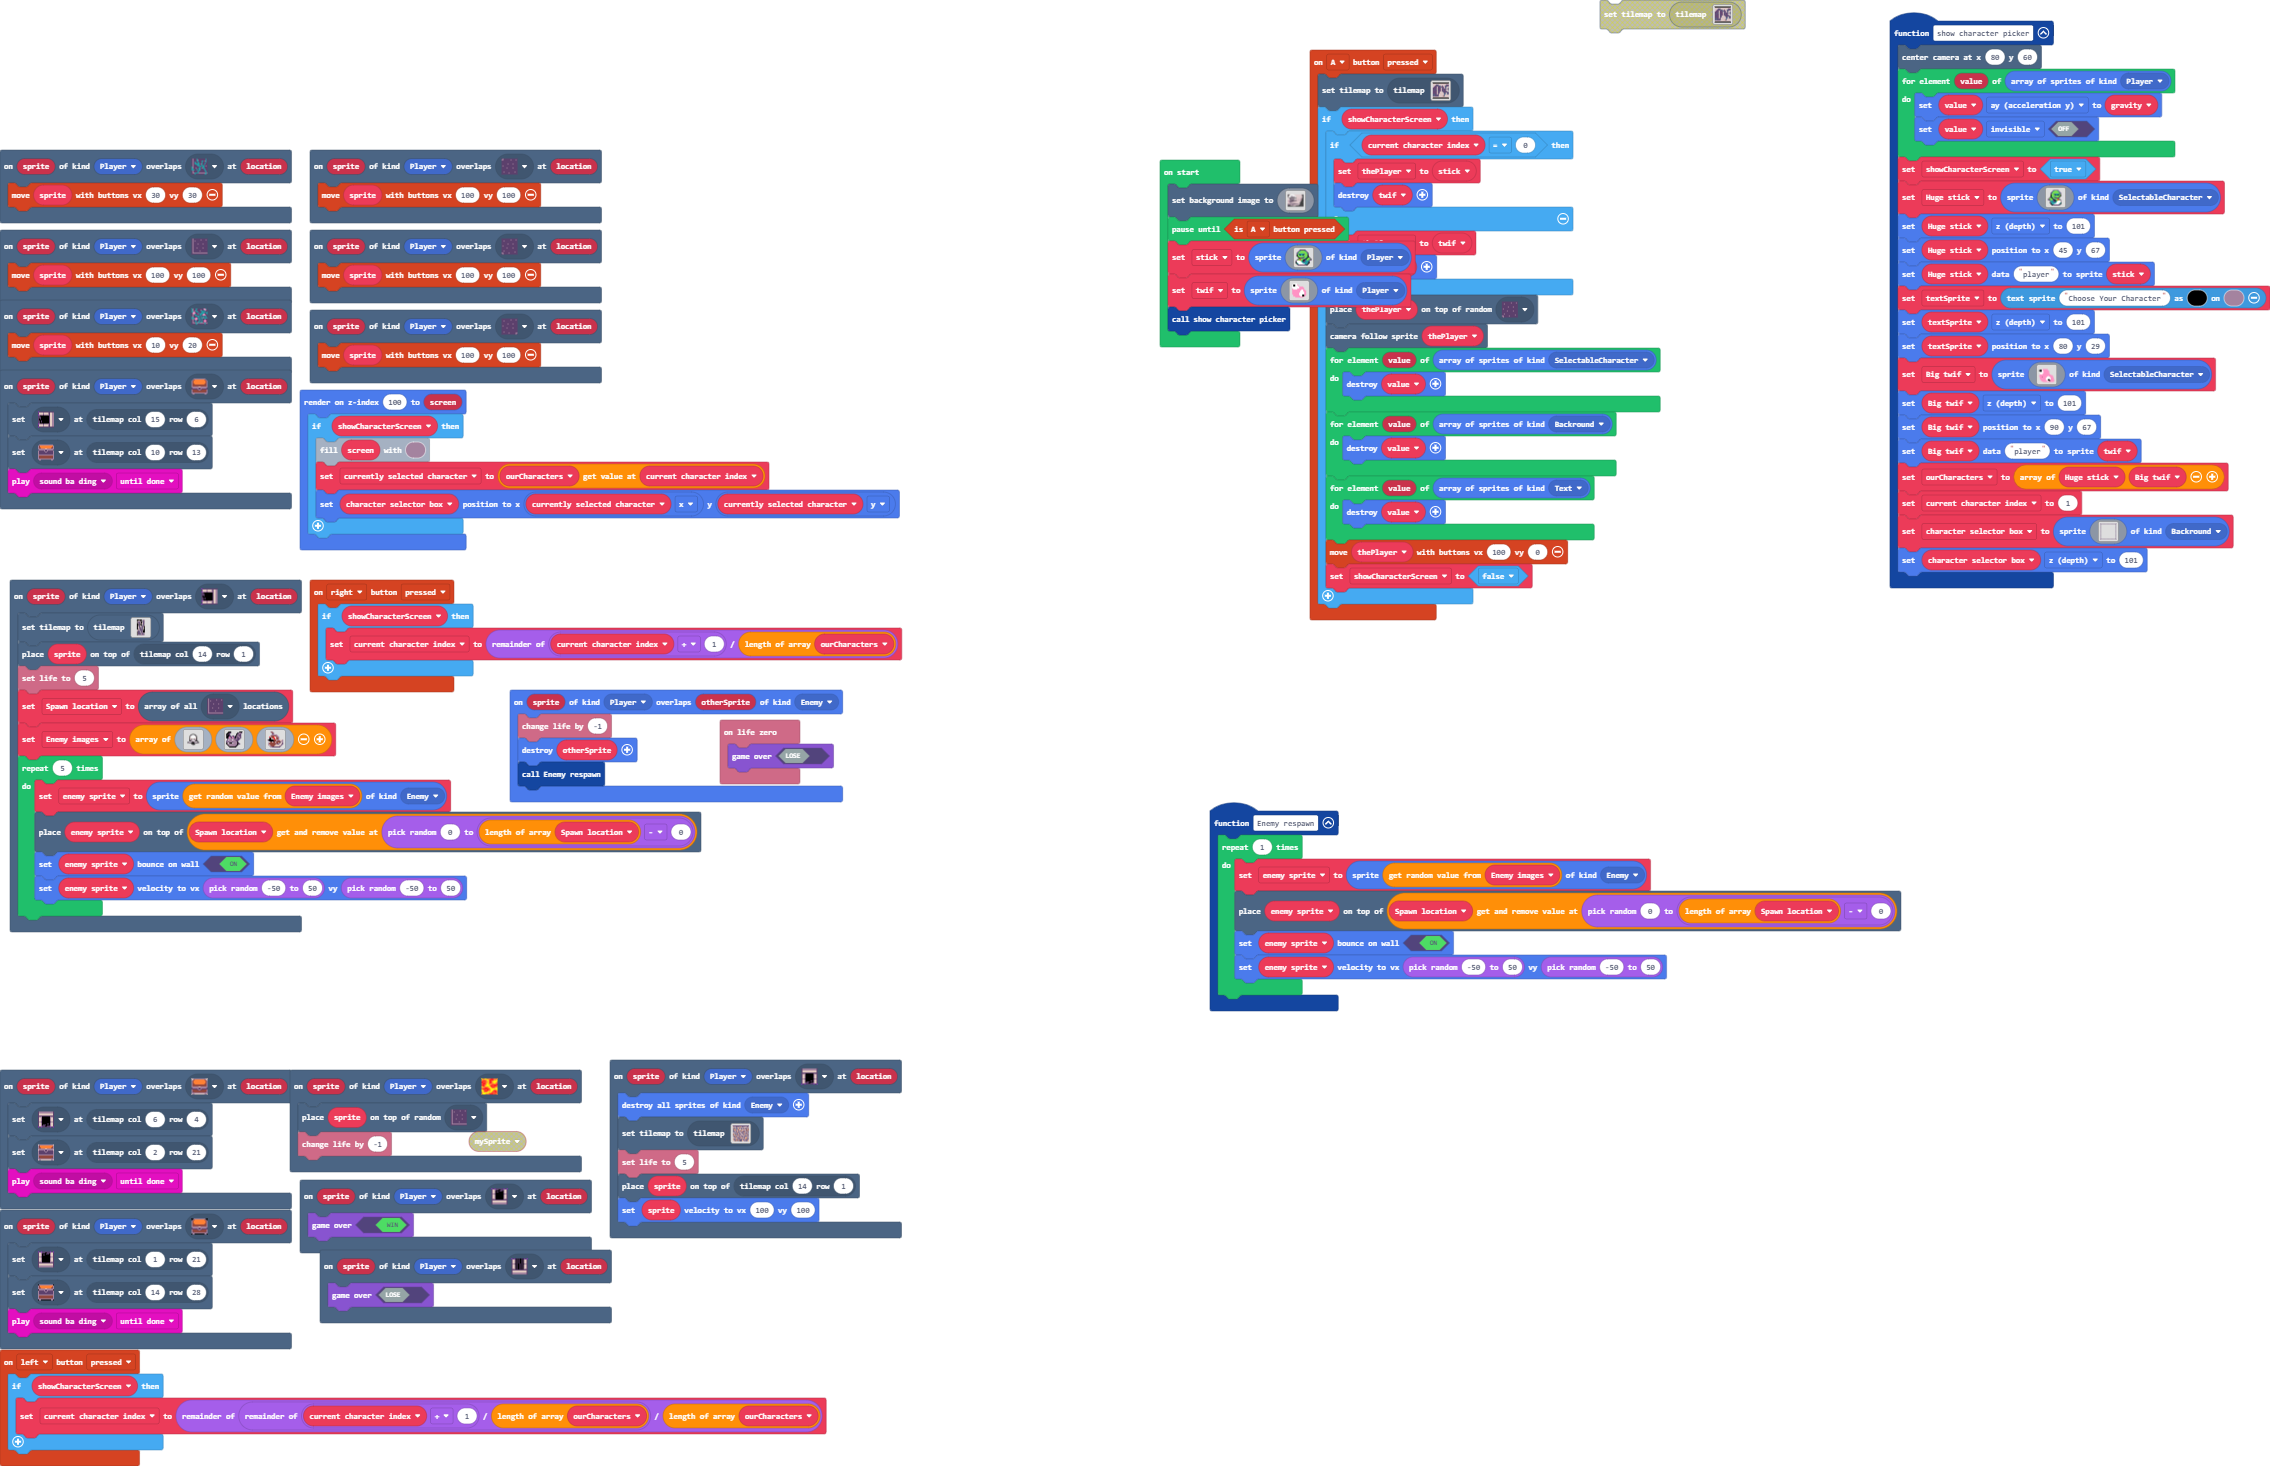
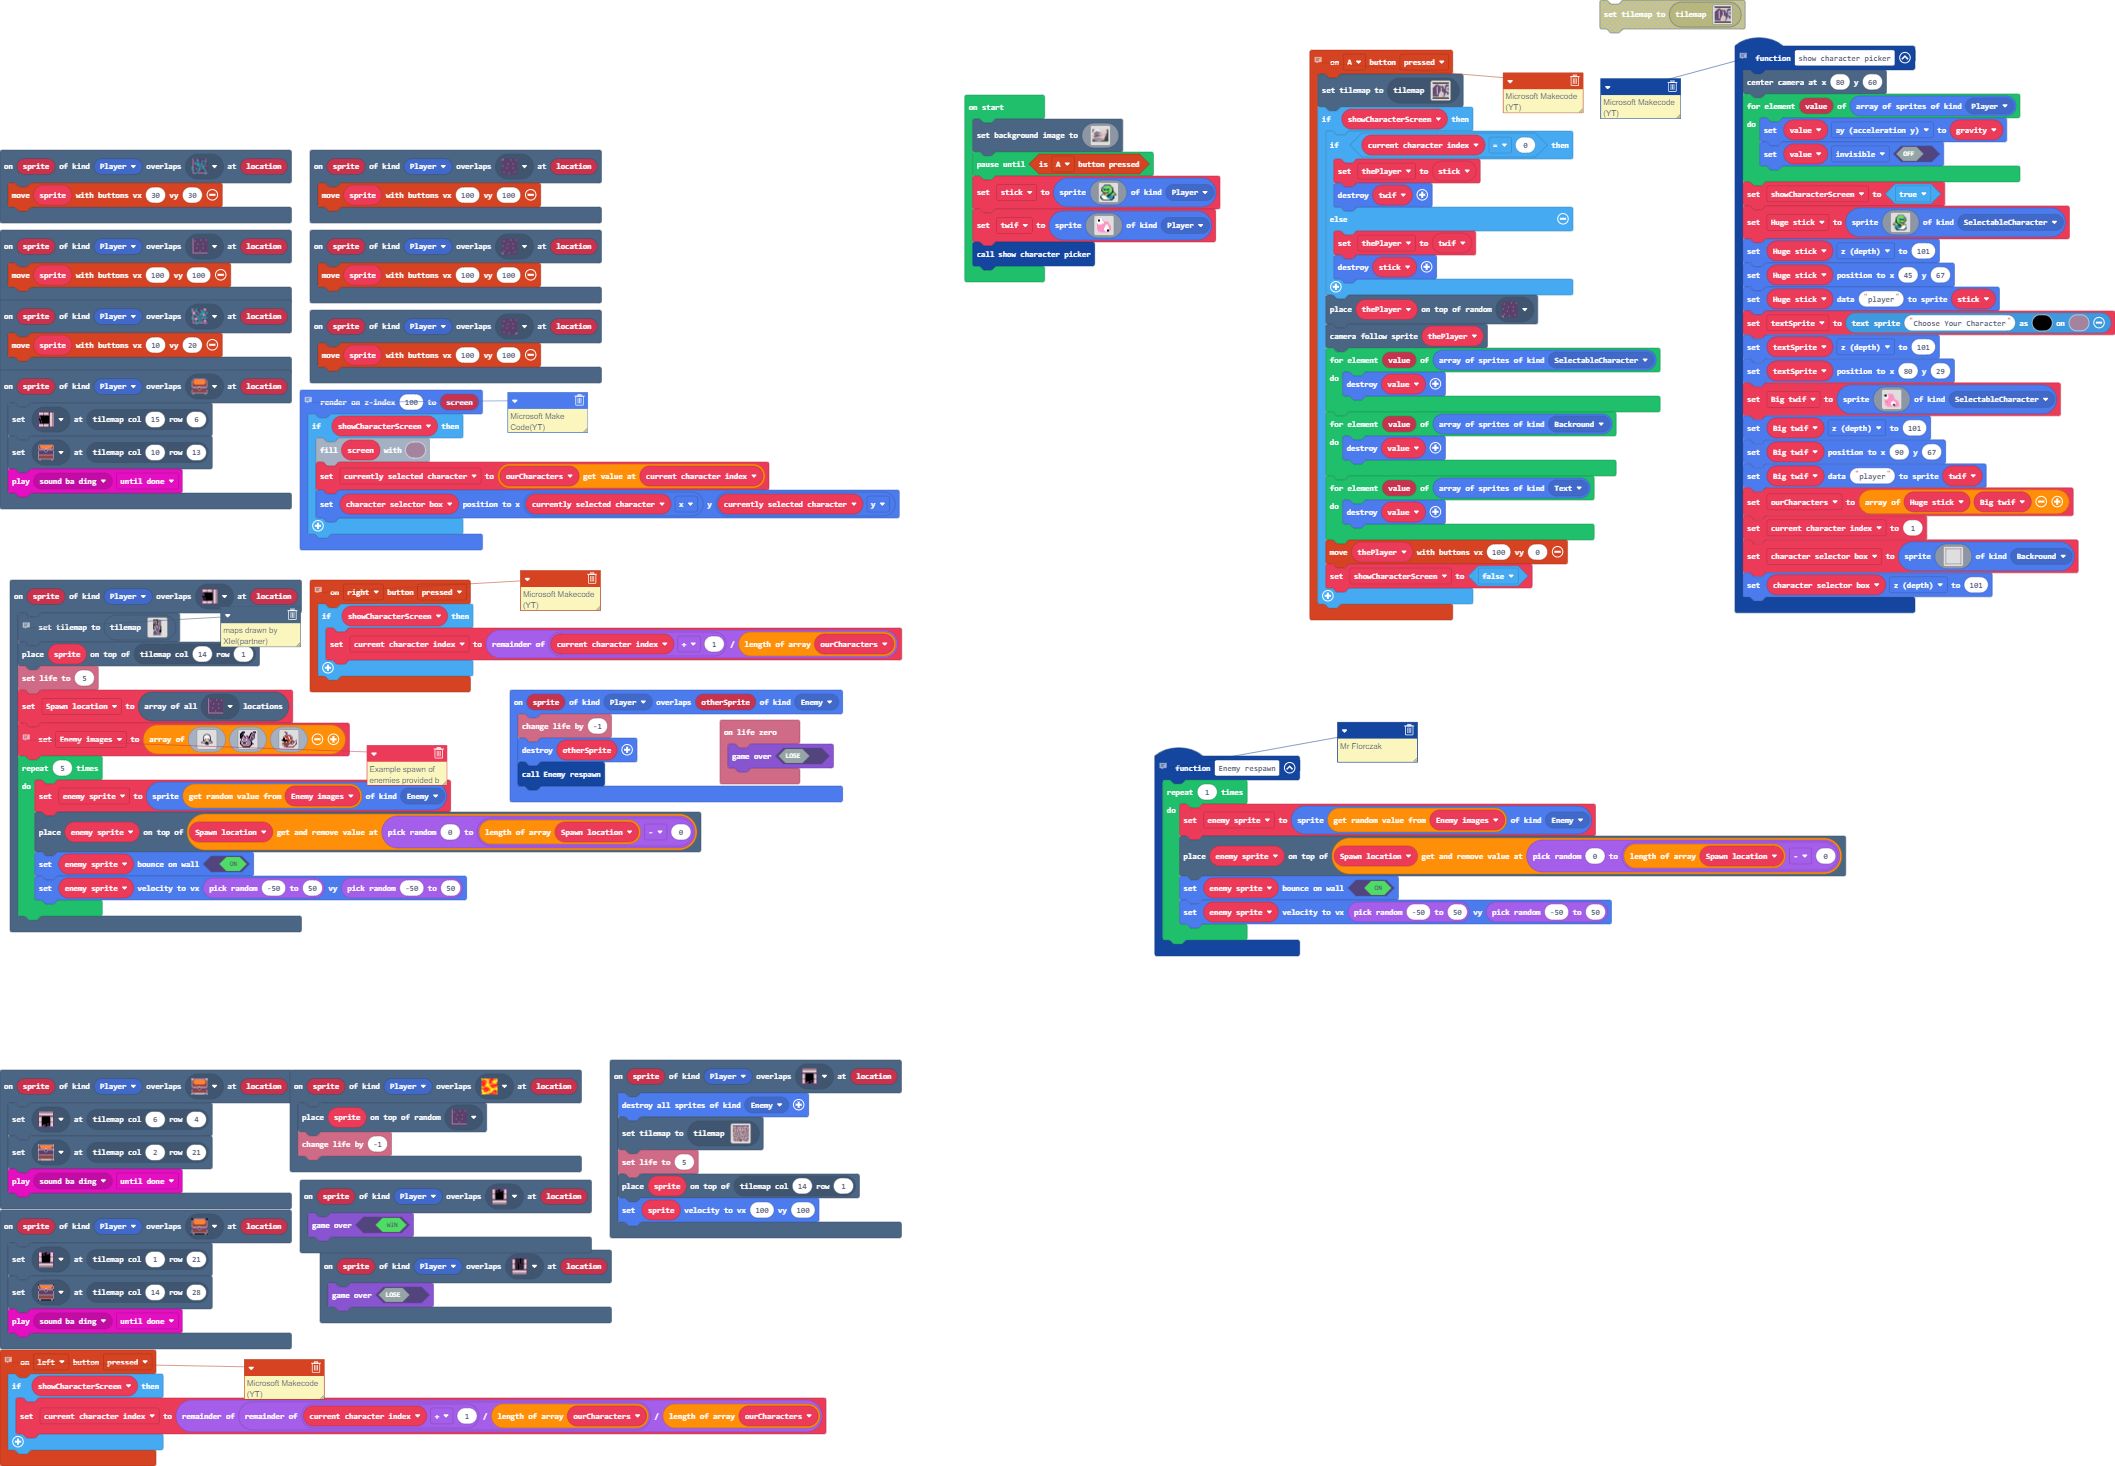
lava teleports and costs life

diff --git a/main.ts b/main.ts
@@ -5,6 +5,7 @@ namespace SpriteKind {
 scene.onOverlapTile(SpriteKind.Player, assets.tile`myTile0`, function (sprite, location) {
     controller.moveSprite(sprite, 10, 20)
 })
+// Microsoft Makecode (YT)
 function show_character_picker () {
     scene.centerCameraAt(80, 60)
     for (let value of sprites.allOfKind(SpriteKind.Player)) {
@@ -72,6 +73,7 @@ scene.onOverlapTile(SpriteKind.Player, sprites.dungeon.darkGroundNorthEast1, fun
 scene.onOverlapTile(SpriteKind.Player, assets.tile`myTile`, function (sprite, location) {
     controller.moveSprite(sprite, 30, 30)
 })
+// Microsoft Makecode (YT)
 controller.A.onEvent(ControllerButtonEvent.Pressed, function () {
     tiles.setCurrentTilemap(tilemap`level1`)
     if (showCharacterScreen) {
@@ -107,11 +109,13 @@ scene.onOverlapTile(SpriteKind.Player, assets.tile`myTile4`, function (sprite, l
     tiles.placeOnTile(sprite, tiles.getTileLocation(14, 1))
     sprite.setVelocity(100, 100)
 })
+// Microsoft Makecode (YT)
 controller.left.onEvent(ControllerButtonEvent.Pressed, function () {
     if (showCharacterScreen) {
         current_character_index = (current_character_index + 1) % ourCharacters.length % ourCharacters.length
     }
 })
+// Mr Florczak
 function Enemy_respawn () {
     for (let index = 0; index < 1; index++) {
         enemy_sprite = sprites.create(Enemy_images._pickRandom(), SpriteKind.Enemy)
@@ -128,6 +132,7 @@ scene.onOverlapTile(SpriteKind.Player, sprites.dungeon.chestClosed, function (sp
     tiles.setTileAt(tiles.getTileLocation(10, 13), assets.tile`myTile3`)
     music.play(music.melodyPlayable(music.baDing), music.PlaybackMode.UntilDone)
 })
+// Microsoft Makecode (YT)
 controller.right.onEvent(ControllerButtonEvent.Pressed, function () {
     if (showCharacterScreen) {
         current_character_index = (current_character_index + 1) % ourCharacters.length
@@ -146,10 +151,14 @@ scene.onOverlapTile(SpriteKind.Player, assets.tile`myTile8`, function (sprite, l
     music.play(music.melodyPlayable(music.baDing), music.PlaybackMode.UntilDone)
 })
 scene.onOverlapTile(SpriteKind.Player, assets.tile`myTile2`, function (sprite, location) {
+    // maps drawn by XIel(partner)
+    // 
     tiles.setCurrentTilemap(tilemap`level6`)
     tiles.placeOnTile(sprite, tiles.getTileLocation(14, 1))
     info.setLife(5)
     Spawn_location = tiles.getTilesByType(sprites.dungeon.darkGroundSouthWest0)
+    // Example spawn of enemies provided b
+    // y Mr.Florczak
     Enemy_images = [assets.image`Twif`, assets.image`Stick`, assets.image`myImage1`]
     for (let index = 0; index < 5; index++) {
         enemy_sprite = sprites.create(Enemy_images._pickRandom(), SpriteKind.Enemy)
@@ -169,6 +178,7 @@ info.onLifeZero(function () {
 scene.onOverlapTile(SpriteKind.Player, sprites.dungeon.darkGroundSouthEast1, function (sprite, location) {
     controller.moveSprite(sprite, 100, 100)
 })
+// Microsoft Make Code(YT)
 spriteutils.createRenderable(100, function (screen2) {
     if (showCharacterScreen) {
         screen2.fill(11)
